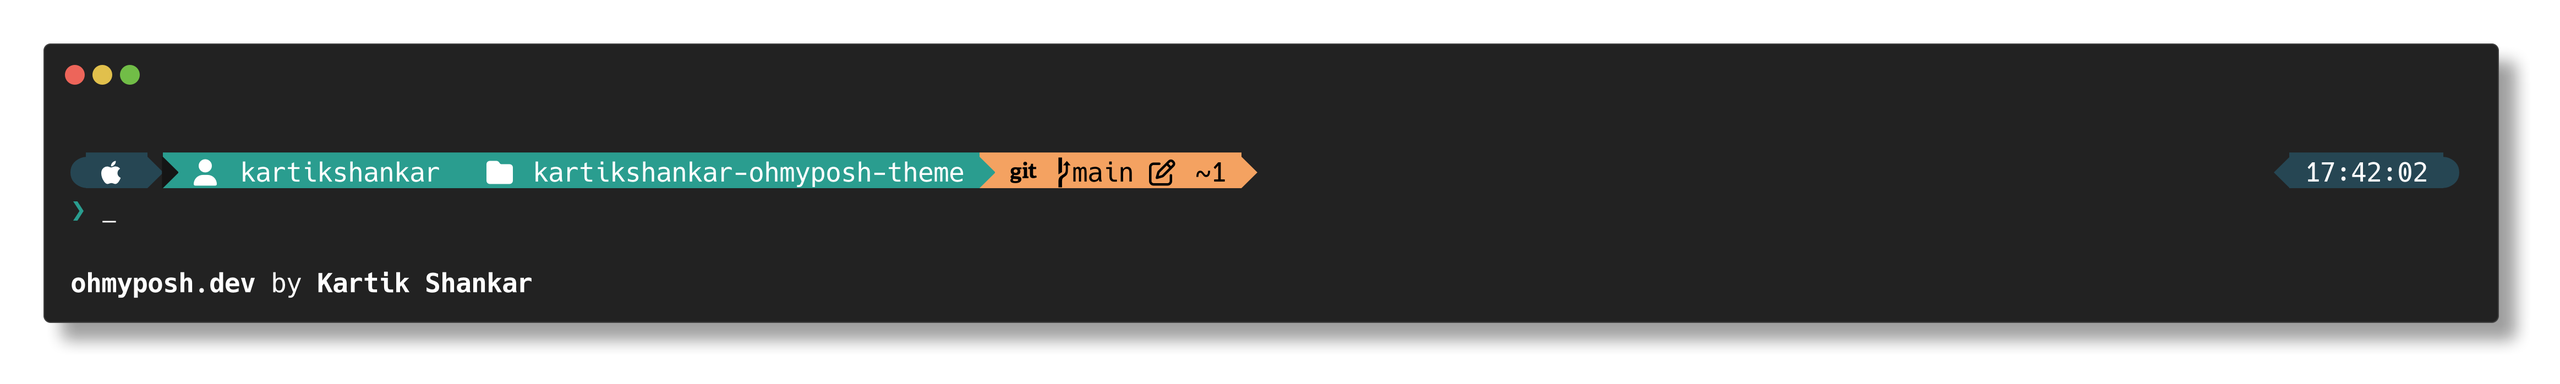
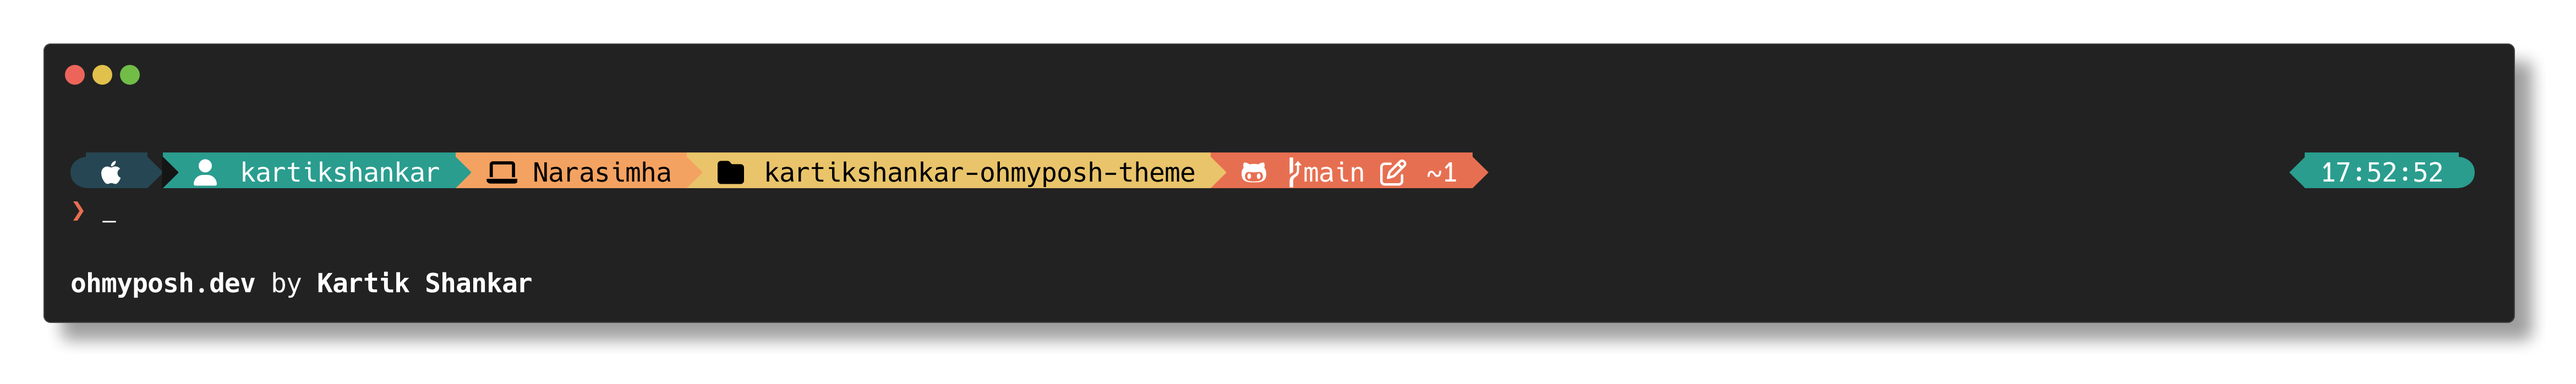
Update theme with all required sections and complete color palette; enhance README with detailed installation instructions

Changed region(s): [[0.0935, 0.3911, 0.5922, 0.5115], [0.0312, 0.692, 0.2182, 0.7822], [0.8727, 0.3911, 0.9663, 0.5115]]

diff --git a/README.md b/README.md
@@ -1,17 +1,17 @@
 # Kartik's Oh My Posh Theme
 
-A clean, informative prompt theme for Oh My Posh that works across multiple shells.
+A clean, informative prompt theme for Oh My Posh that works across multiple shells with a beautiful color palette.
 
 ![Theme Preview](preview.png)
 
 ## Features
 
-- Username display with a modern diamond style
+- Apple icon for macOS users
+- Username display with a person icon
+- Computer name with a computer icon
 - Root user indicator
-- Current directory path
-- Git status information with color indicators
-- Language version indicators (Node.js, Go, Python)
-- Current shell indicator
+- Current directory path with folder icon
+- Git status information with Octocat icon and color indicators
 - Time display on the right side
 - Clean prompt character for input
 
@@ -20,42 +20,112 @@ A clean, informative prompt theme for Oh My Posh that works across multiple shel
 - [Oh My Posh](https://ohmyposh.dev/) installed
 - A [Nerd Font](https://www.nerdfonts.com/) installed and configured in your terminal
 
+## Color Palette
+
+This theme uses a beautiful, harmonious palette:
+- Charcoal: `#264653`
+- Persian Green: `#2a9d8f`
+- Saffron: `#e9c46a`
+- Sandy Brown: `#f4a261`
+- Burnt Sienna: `#e76f51`
+
 ## Installation
 
-### Option 1: Manual Installation
+### macOS Installation
 
-1. Clone this repository:
+1. Install Oh My Posh (if not already installed):
    ```bash
-   git clone https://github.com/kartikshankar/kartikshankar-ohmyposh-theme.git
+   brew install oh-my-posh
    ```
 
-2. Set up Oh My Posh to use this theme:
+2. Install a Nerd Font (if not already installed):
+   ```bash
+   brew tap homebrew/cask-fonts
+   brew install --cask font-hack-nerd-font
+   ```
+   
+3. Configure your terminal to use the Nerd Font (e.g., "Hack Nerd Font")
+
+4. Clone this repository:
+   ```bash
+   git clone https://github.com/kartikshankar/kartikshankar-ohmyposh-theme.git
+   cd kartikshankar-ohmyposh-theme
+   ```
+
+5. Set up Oh My Posh to use this theme:
 
    #### For Bash
    Add to your `~/.bashrc`:
    ```bash
-   eval "$(oh-my-posh init bash --config /path/to/kartikshankar.omp.json)"
+   eval "$(oh-my-posh init bash --config /path/to/kartikshankar-ohmyposh-theme/kartikshankar.omp.json)"
    ```
 
    #### For ZSH
    Add to your `~/.zshrc`:
    ```bash
-   eval "$(oh-my-posh init zsh --config /path/to/kartikshankar.omp.json)"
+   eval "$(oh-my-posh init zsh --config /path/to/kartikshankar-ohmyposh-theme/kartikshankar.omp.json)"
    ```
+
+### Windows Installation
+
+1. Install Oh My Posh using winget:
+   ```powershell
+   winget install JanDeDobbeleer.OhMyPosh
+   ```
+
+2. Install a Nerd Font:
+   ```powershell
+   oh-my-posh font install Hack
+   ```
+
+3. Configure Windows Terminal to use the Nerd Font (e.g., "Hack Nerd Font"):
+   - Open Windows Terminal
+   - Click on Settings (dropdown menu) > Settings
+   - Select your profile (e.g., PowerShell, Command Prompt)
+   - Click on "Appearance"
+   - Change the font face to "Hack Nerd Font"
+
+4. Clone this repository:
+   ```powershell
+   git clone https://github.com/kartikshankar/kartikshankar-ohmyposh-theme.git
+   cd kartikshankar-ohmyposh-theme
+   ```
+
+5. Set up Oh My Posh to use this theme:
 
    #### For PowerShell
-   Add to your `$PROFILE`:
+   Add to your PowerShell profile:
    ```powershell
-   oh-my-posh init pwsh --config /path/to/kartikshankar.omp.json | Invoke-Expression
+   oh-my-posh init pwsh --config "C:\path\to\kartikshankar-ohmyposh-theme\kartikshankar.omp.json" | Invoke-Expression
+   ```
+   
+   To create/edit your PowerShell profile if it doesn't exist:
+   ```powershell
+   if (!(Test-Path -Path $PROFILE)) {
+     New-Item -ItemType File -Path $PROFILE -Force
+   }
+   notepad $PROFILE
    ```
 
-### Option 2: Direct Remote URL
+   #### For Command Prompt
+   Create a `cmd-init.lua` file:
+   ```lua
+   load(io.popen('oh-my-posh init cmd --config "C:/path/to/kartikshankar-ohmyposh-theme/kartikshankar.omp.json"'):read("*a"))()
+   ```
+
+### Direct Remote URL Installation
 
 You can also use the theme directly from GitHub:
 
 ```bash
 eval "$(oh-my-posh init zsh --config https://raw.githubusercontent.com/kartikshankar/kartikshankar-ohmyposh-theme/main/kartikshankar.omp.json)"
 ```
+
+## Troubleshooting
+
+- If icons don't appear correctly, make sure you have installed and configured a Nerd Font properly
+- For issues with colors, ensure your terminal supports 24-bit true color
+- Run `oh-my-posh debug` to verify your Oh My Posh installation
 
 ## Customization
 
